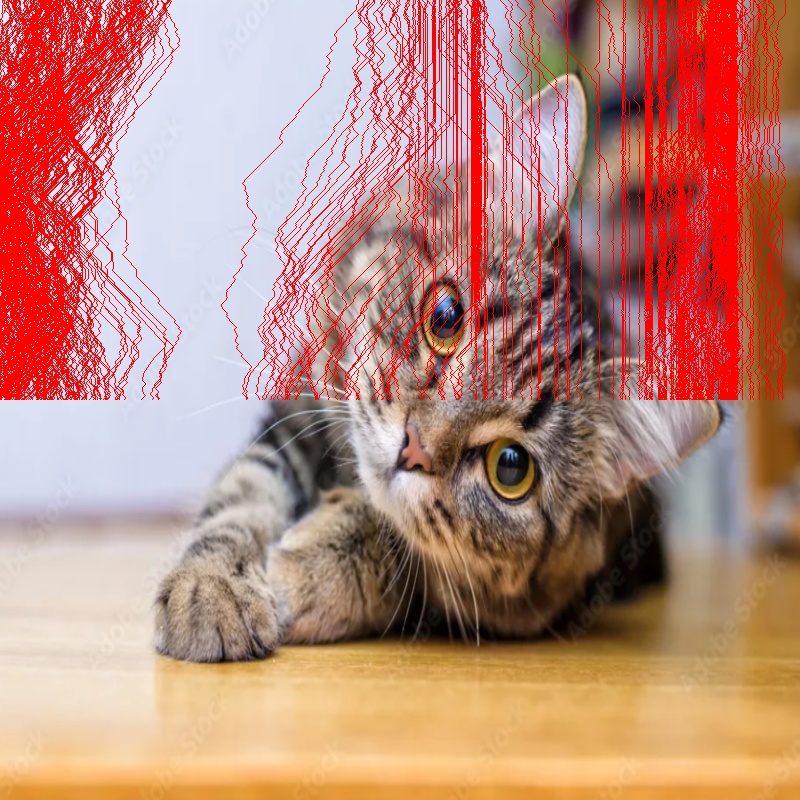
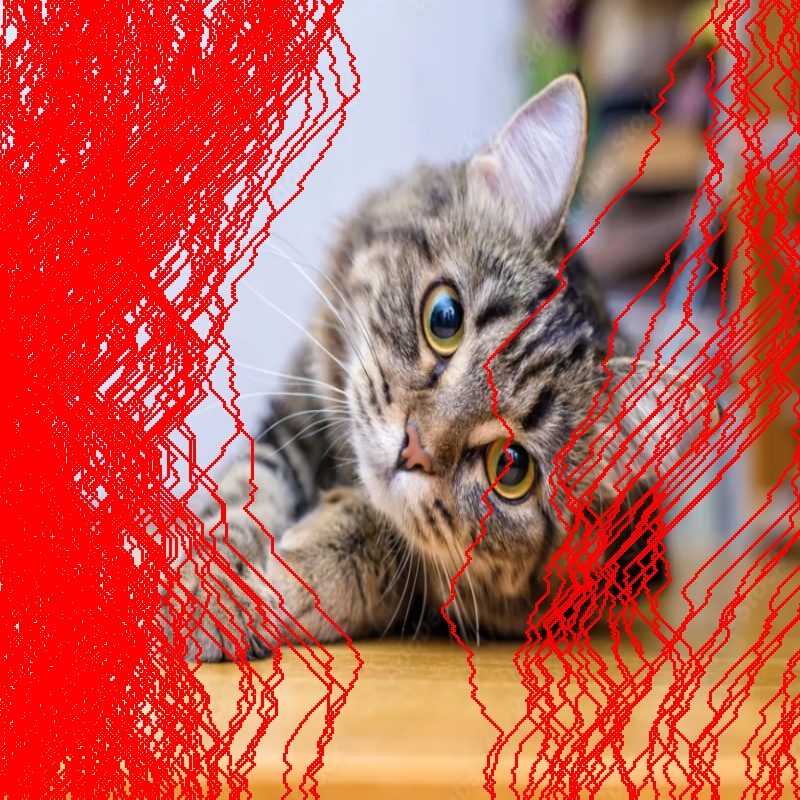
fix: Seams Visualizations

diff --git a/visualization.py b/visualization.py
@@ -7,21 +7,35 @@ class ImageVisualizer:
     """Handles image visualization and saving."""
 
     @staticmethod
+    # def overlay_seams(image: np.ndarray, seams: list[np.ndarray]) -> np.ndarray:
+    #     """
+    #     Overlay all seams on the original image.
+
+    #     :param image: The original image.
+    #     :param seams: List of seams (each seam is an array of indices).
+    #     :return: Image with all seams drawn.
+    #     """
+    #     img_with_seams = image.copy()
+
+    #     for seam in seams:
+    #         for row, col in enumerate(seam):
+    #             img_with_seams[row, col] = [255, 0, 0]  # Draw seams
+
+    #     return img_with_seams
+    @staticmethod
     def overlay_seams(image: np.ndarray, seams: list[np.ndarray]) -> np.ndarray:
         """
         Overlay all seams on the original image.
-
-        :param image: The original image.
-        :param seams: List of seams (each seam is an array of indices).
-        :return: Image with all seams drawn.
         """
         img_with_seams = image.copy()
 
         for seam in seams:
-            for row, col in enumerate(seam):
-                img_with_seams[row, col] = [255, 0, 0]  # Draw seams in RED
+            for row, col in enumerate(seam):  # Ensure seam[row] correctly maps to col
+                if 0 <= col < img_with_seams.shape[1]:  # Prevent out-of-bounds errors
+                    img_with_seams[row, col] = [255, 0, 0]  # Draw seams in red
 
         return img_with_seams
+
 
     @staticmethod
     def save_results(original: np.ndarray, seams: list[np.ndarray], resized: np.ndarray, output_dir: str, filename: str) -> None:
@@ -51,26 +65,52 @@ class ImageVisualizer:
         print(f"Results saved to {output_dir}")
 
     @staticmethod
+    # def show_images(original: np.ndarray, seams: list[np.ndarray], resized: np.ndarray) -> None:
+    #     """
+    #     Display original image with seams and the final resized image.
+
+    #     :param original: Original image.
+    #     :param seams: List of seams.
+    #     :param resized: Final resized image.
+    #     """
+    #     img_with_seams = ImageVisualizer.overlay_seams(original, seams)
+
+    #     plt.figure(figsize=(15, 5))
+        
+    #     plt.subplot(1, 2, 1)
+    #     plt.title("Seams to be Removed")
+    #     plt.imshow(img_with_seams)
+    #     plt.axis("off")
+
+    #     plt.subplot(1, 2, 2)
+    #     plt.title("Final Resized Image")
+    #     plt.imshow(resized)
+    #     plt.axis("off")
+
+    #     plt.show()
+    @staticmethod
     def show_images(original: np.ndarray, seams: list[np.ndarray], resized: np.ndarray) -> None:
         """
         Display original image with seams and the final resized image.
-
-        :param original: Original image.
-        :param seams: List of seams.
-        :param resized: Final resized image.
         """
         img_with_seams = ImageVisualizer.overlay_seams(original, seams)
 
         plt.figure(figsize=(15, 5))
         
-        plt.subplot(1, 2, 1)
-        plt.title("Seams to be Removed")
+        plt.subplot(1, 3, 1)
+        plt.title("Original Image")
+        plt.imshow(original)
+        plt.axis("off")
+
+        plt.subplot(1, 3, 2)
+        plt.title("Seam Overlay")
         plt.imshow(img_with_seams)
         plt.axis("off")
 
-        plt.subplot(1, 2, 2)
+        plt.subplot(1, 3, 3)
         plt.title("Final Resized Image")
         plt.imshow(resized)
         plt.axis("off")
 
         plt.show()
+

diff --git a/seam_carver.py b/seam_carver.py
@@ -9,17 +9,31 @@ class SeamCarver:
     def __init__(self, img: np.ndarray):
         self.img = img.copy()
         self.original_img = img.copy()
-        self.seams = []  # Store all seams
+        self.seams = []  # Store all seam coordinates
+        self.seam_visualizations = []  # Store images with seams
 
+    # def remove_seam(self, seam: np.ndarray) -> None:
+    #     """Removes a seam and stores its path for visualization later."""
+    #     height, width = self.img.shape[:2]
+    #     output = np.zeros((height, width - 1, 3), dtype=self.img.dtype)
+
+    #     for i in range(height):
+    #         self.seams.append((i, seam[i]))  # Store seam coordinates
+    #         output[i, :, :] = np.delete(self.img[i, :, :], seam[i], axis=0)
+
+    #     self.img = output  # Update the image after removing the seam
     def remove_seam(self, seam: np.ndarray) -> None:
         """Removes a seam and stores its path for visualization later."""
         height, width = self.img.shape[:2]
         output = np.zeros((height, width - 1, 3), dtype=self.img.dtype)
 
+        seam_indices = []  # Store entire seam for correct visualization
+
         for i in range(height):
-            self.seams.append((i, seam[i]))  # Store seam coordinates
+            seam_indices.append(seam[i])  # Store seam column index per row
             output[i, :, :] = np.delete(self.img[i, :, :], seam[i], axis=0)
 
+        self.seams.append(np.array(seam_indices))  # Store full seam path as an array
         self.img = output
 
     def carve_width(self, new_width: int) -> np.ndarray:
@@ -53,10 +67,27 @@ class SeamCarver:
         return self.img
 
     def get_seam_visualization(self) -> np.ndarray:
-        """Overlay all stored seams onto the original image in red."""
-        vis = self.original_img.copy()
+        """Draw seams on the original image, mapping them from the resized dimensions, control thickness of seams visualizations."""
+        img_with_seams = self.original_img.copy()
+        thickness = 1
 
-        for row, col in self.seams:
-            vis[row, col] = [255, 0, 0]  # Mark seam in RED
+        # Compute scaling factors to map seams from resized image to original image
+        scale_x = self.original_img.shape[1] / self.img.shape[1]  # Width scale
+        scale_y = self.original_img.shape[0] / self.img.shape[0]  # Height scale
 
-        return vis
+        for seam in self.seams:
+            for row, col in enumerate(seam):
+                orig_row = int(row * scale_y)
+                orig_col = int(col * scale_x)
+
+                # Ensure we stay within bounds
+                for i in range(-thickness, thickness + 1):
+                    for j in range(-thickness, thickness + 1):
+                        r, c = orig_row + i, orig_col + j
+                        if (
+                            0 <= r < img_with_seams.shape[0]
+                            and 0 <= c < img_with_seams.shape[1]
+                        ):
+                            img_with_seams[r, c] = [255, 0, 0]
+
+        return img_with_seams
